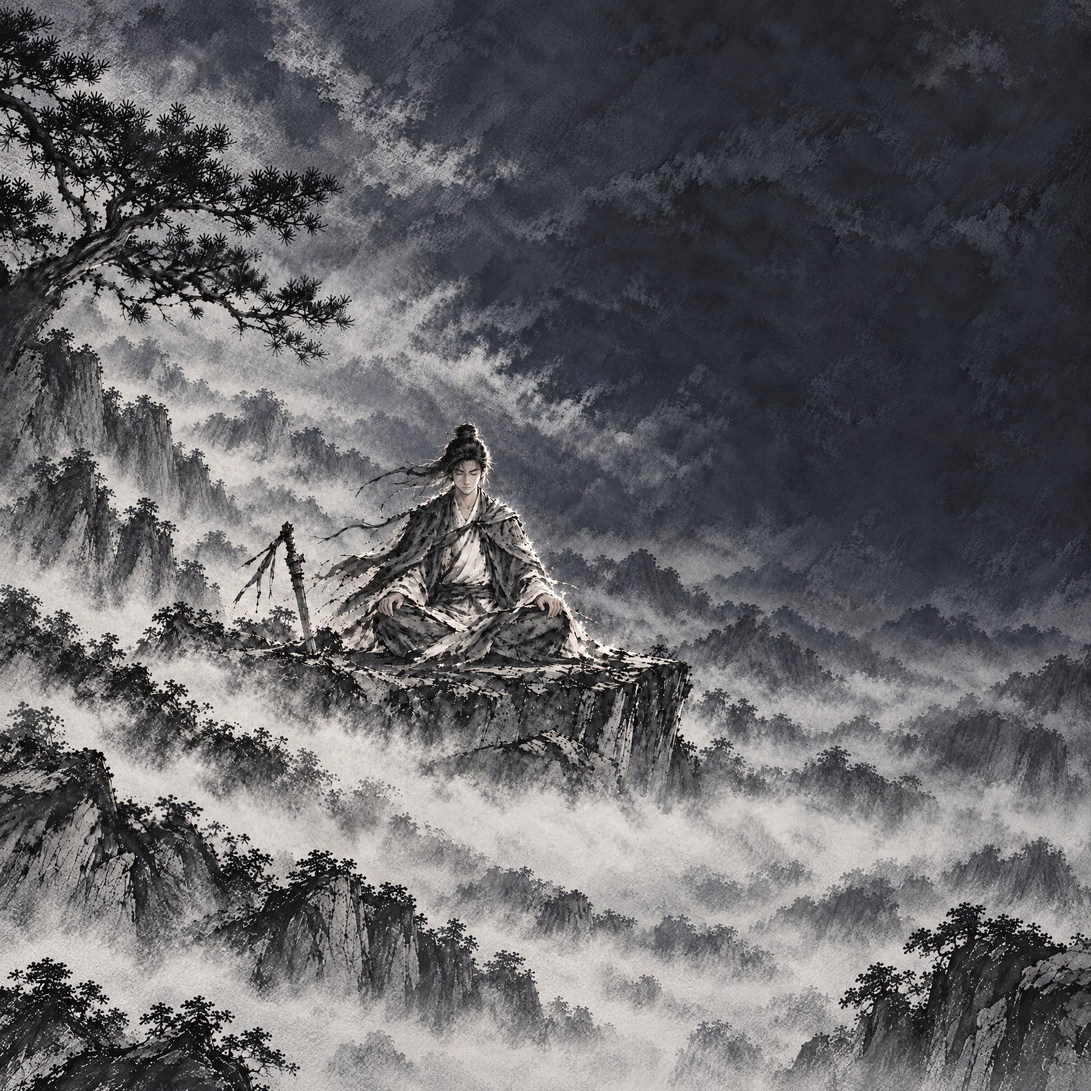
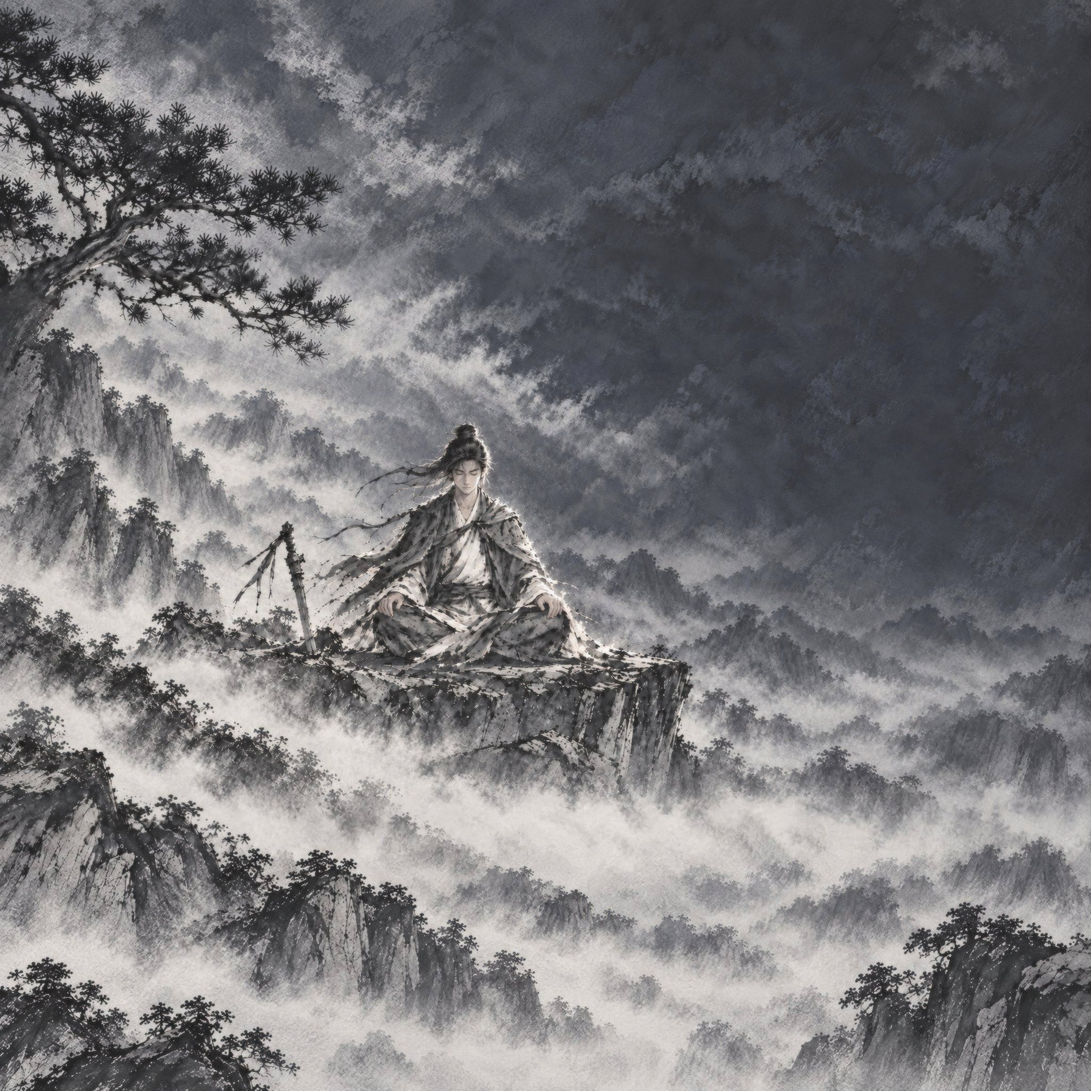
docs(bag-wugong): 武功原型——宣纸目录板、装配栏下移、底图再淡、四组类别图标对比

diff --git a/docs/design/bag-wugong-prototype.html b/docs/design/bag-wugong-prototype.html
@@ -137,27 +137,32 @@ button { font: inherit; color: inherit; }
 /* 左缘：类别圈 + 一道细竖线 */
 .wcat { position: absolute; transform: translate(-50%, -50%); width: calc(var(--pw) * .04); aspect-ratio: 1; border-radius: 50%; border: 0; padding: 0; cursor: pointer;
   background: radial-gradient(circle, oklch(0.2 0.008 262 / .92) 58%, oklch(0.2 0.008 262 / 0) 72%); display: grid; place-items: center; }
-.wcat img { width: 58%; height: 58%; object-fit: contain; filter: invert(1); }
+.wcat img { position: absolute; inset: 21%; width: 58%; height: 58%; object-fit: contain; filter: invert(1); }
 .wcat.on { background: radial-gradient(circle, oklch(0.2 0.008 262 / .92) 56%, oklch(0.78 0.11 78 / .9) 60%, oklch(0.78 0.11 78 / 0) 74%); box-shadow: 0 0 14px oklch(0.8 0.12 80 / .45); border-radius: 50%; }
 .wcat.on img { filter: invert(.85) sepia(1) saturate(1.6) hue-rotate(-12deg); }
+#sc-wg:not([data-ic="o"]) .wcat { background: none; }
+#sc-wg:not([data-ic="o"]) .wcat img, #sc-wg:not([data-ic="o"]) .wcat.on img { inset: 4%; width: 92%; height: 92%; filter: drop-shadow(0 2px 3px oklch(0.1 0.01 262 / .5)); }
+#sc-wg[data-ic="c"] .wcat { background: radial-gradient(circle, oklch(0.92 0.006 85 / .85) 50%, transparent 70%); }
+#sc-wg[data-ic="c"] .wcat img, #sc-wg[data-ic="c"] .wcat.on img { inset: 15%; width: 70%; height: 70%; }
+#sc-wg:not([data-ic="o"]) .wcat.on { background: none; box-shadow: 0 0 0 2px oklch(0.78 0.11 78 / .95), 0 0 14px oklch(0.8 0.12 80 / .5); }
+#sc-wg[data-ic="b"] .wcat, #sc-wg[data-ic="b"] .wcat.on { border-radius: 6px; }
+#sc-wg:not([data-ic="o"]) .wcat:disabled img { opacity: .4; filter: grayscale(1) brightness(1.4); }
 .wcat:disabled { cursor: not-allowed; } .wcat:disabled img { opacity: .3; }
 .wcat:focus-visible { outline: 1.5px solid var(--gold); outline-offset: 2px; }
 .wrule { position: absolute; left: 6.4%; top: 10%; height: 78%; width: 1px; background: linear-gradient(to bottom, transparent, oklch(0.85 0.01 85 / .55) 8%, oklch(0.85 0.01 85 / .55) 92%, transparent); }
 /* 目录：淡色宣纸晕底上竖写这一类各门，选中金字带点、未得淡灰 */
-.toc { position: absolute; left: 7.4%; top: 12.6%; width: 29.6%; height: 25%; display: flex;
-  background: oklch(0.9 0.006 85 / .72); -webkit-mask: linear-gradient(to right, #000 80%, transparent), linear-gradient(to bottom, #000 82%, transparent); -webkit-mask-composite: source-in; mask: linear-gradient(to right, #000 80%, transparent), linear-gradient(to bottom, #000 82%, transparent); mask-composite: intersect; }
-.toc button { flex: 0 0 12.5%; border: 0; background: none; padding: 9% 0 0; cursor: pointer; position: relative; display: flex; justify-content: center;
-  border-left: 1px solid oklch(0.4 0.01 262 / .14); }
-.toc button:first-child { border-left: 0; }
-.toc button span { writing-mode: vertical-rl; font-family: var(--font-body); font-weight: 700; font-size: clamp(14px, calc(var(--pw) * .0145), 22px); letter-spacing: .12em; color: oklch(0.24 0.01 262); }
-.toc button.on span { color: oklch(0.42 0.1 70); }
-.toc button.on::before { content: ''; position: absolute; top: 3%; left: 50%; width: 5px; height: 5px; margin-left: -2.5px; border-radius: 50%; background: oklch(0.6 0.12 75); box-shadow: 0 0 6px oklch(0.75 0.13 78); }
-.toc button.on { background: linear-gradient(to bottom, oklch(0.95 0.04 85 / .7), transparent); }
-.toc button.q2 span { color: oklch(0.36 0.1 235); } .toc button.q3 span { color: oklch(0.44 0.15 30); }
-.toc button.ghost span { color: oklch(0.55 0.01 262 / .7); }
-.toc button.eq span::after { content: '·'; display: block; color: oklch(0.5 0.1 70); }
-.toc button:hover span { text-decoration: underline; text-decoration-color: oklch(0.5 0.08 75 / .5); text-underline-offset: 3px; }
-.tocpg { position: absolute; left: 22%; top: 38.2%; z-index: 1; padding: 2px 10px; border-radius: 10px; background: oklch(0.9 0.006 85 / .6); transform: translateX(-50%); display: flex; gap: 12px; align-items: center; font-size: 13px; color: oklch(0.3 0.01 262); }
+/* 目录：AI 画的宣纸板（toc.png，板上已有七道竖线分八列），名字落在列中；选中金字、顶上一点 */
+.toc { position: absolute; left: 6.6%; top: 9.5%; width: 32%; aspect-ratio: 1400 / 684; background: url('../../code/public/art/wugong/toc.png') center / 100% 100% no-repeat; }
+.toc button { position: absolute; top: 17%; height: 64%; width: 10.3%; border: 0; background: none; padding: 0; cursor: pointer; display: flex; justify-content: center; }
+.toc button span { writing-mode: vertical-rl; font-family: var(--font-body); font-weight: 500; font-size: clamp(14px, calc(var(--pw) * .0142), 22px); letter-spacing: .14em; color: oklch(0.26 0.01 262); }
+.toc button.on span { color: oklch(0.5 0.11 72); font-weight: 700; text-shadow: 0 0 10px oklch(0.92 0.06 85); }
+.toc button.on::before { content: ''; position: absolute; top: -7%; left: 50%; width: 5px; height: 5px; margin-left: -2.5px; border-radius: 50%; background: oklch(0.62 0.12 75); box-shadow: 0 0 6px oklch(0.8 0.13 78); }
+.toc button.q2 span { color: oklch(0.38 0.1 235); } .toc button.q3 span { color: oklch(0.46 0.15 30); }
+.toc button.on.q2 span, .toc button.on.q3 span { text-decoration: underline 1.5px oklch(0.6 0.12 75); text-underline-offset: 4px; }
+.toc button.ghost span { color: oklch(0.6 0.01 262 / .75); }
+.toc button.eq::after { content: ''; position: absolute; bottom: -6%; left: 50%; width: 14px; height: 1.5px; margin-left: -7px; background: oklch(0.6 0.1 72); }
+.toc button:hover span { color: oklch(0.42 0.09 72); }
+.tocpg { position: absolute; left: 22.6%; top: 37.5%; z-index: 1; padding: 2px 10px; border-radius: 10px; background: oklch(0.9 0.006 85 / .6); transform: translateX(-50%); display: flex; gap: 12px; align-items: center; font-size: 13px; color: oklch(0.3 0.01 262); }
 .tocpg button { border: 0; background: none; cursor: pointer; font-size: 16px; color: oklch(0.3 0.01 262); } .tocpg button:disabled { opacity: .3; cursor: default; }
 /* 右侧题跋：大字竖写名 + 两列批注 + 朱印 */
 .ttl { position: absolute; left: 82.5%; top: 6%; transform: translateX(-50%); writing-mode: vertical-rl; font-family: 'Ma Shan Zheng', var(--font-display); line-height: 1;
@@ -178,8 +183,7 @@ button { font: inherit; color: inherit; }
 .fmd svg circle { fill: none; stroke-width: 3; }
 .fmd .bgc { stroke: oklch(0.85 0.01 85 / .2); } .fmd .fg { stroke: oklch(0.78 0.11 78); }
 .fmd.lock { opacity: .35; filter: grayscale(1); }
-.fmd.t3::after { content: '圆'; position: absolute; right: -6%; bottom: -4%; width: 34%; aspect-ratio: 1; display: grid; place-items: center; font-size: calc(var(--pw) * .0062);
-  background: oklch(0.5 0.17 28 / .92); color: oklch(0.95 0.02 80); border-radius: 2px; font-family: var(--font-display); }
+
 /* 属性：标签 + 墨刷条 + 数值 */
 .attrs5 { position: absolute; left: 74.5%; top: 64.5%; width: 23.5%; display: grid; gap: calc(var(--pw) * .0068); }
 .attrs5 .r { display: grid; grid-template-columns: 4.6em 1fr 4.2em; align-items: center; gap: 10px; font-size: clamp(13px, calc(var(--pw) * .0108), 16px); color: oklch(0.9 0.01 85); letter-spacing: .1em; }
@@ -198,8 +202,8 @@ button { font: inherit; color: inherit; }
 .wact button.quiet:hover { box-shadow: inset 0 0 0 1px oklch(0.85 0.01 85 / .9); }
 .wact button:disabled { filter: grayscale(1); opacity: .45; cursor: default; }
 /* 下沿装配：一排圆，圈内方框里是类别图标；第一枚是主修内功（金圈） */
-.eqrow { position: absolute; left: 50%; top: 89.3%; transform: translate(-50%, -50%); display: flex; gap: calc(var(--pw) * .0135); }
-.eq { position: relative; width: calc(var(--pw) * .05); aspect-ratio: 1; border-radius: 50%; border: 0; padding: 0; cursor: pointer;
+.eqrow { position: absolute; left: 41%; top: 92%; transform: translate(-50%, -50%); display: flex; gap: calc(var(--pw) * .011); }
+.eq { position: relative; width: calc(var(--pw) * .042); aspect-ratio: 1; border-radius: 50%; border: 0; padding: 0; cursor: pointer;
   background: radial-gradient(circle, oklch(0.18 0.008 262 / .95) 60%, oklch(0.18 0.008 262 / 0) 72%); display: grid; place-items: center; }
 .eq::after { content: ''; position: absolute; left: 15%; right: 15%; bottom: -14%; height: 8%; border-radius: 50%; background: oklch(0.1 0.01 262 / .5); filter: blur(2px); }
 .eq i { width: 50%; height: 50%; border-radius: 6px; background: oklch(0.86 0.008 85); display: grid; place-items: center; }
@@ -365,21 +369,23 @@ const NG = [
   { id: 'dingjing', name: '定慧功', quality: '寻常', route: '镇岳', zhong: 61, cap: '大成 · 6 重', attrs: [['气血', 24310], ['攻击', 2210], ['防御', 1390], ['命中', 38], ['闪避', 10]],
     yj: [['护盾', '开战得 <b>18%</b> 气血护盾'], ['反伤', '受击反伤 <b>12%</b>'], ['防御', '防御 <b>+15%</b>'], ['气海', '×<b>1.0</b> · 真气上限 <b>1640</b>']] },
 ];
-let cat = '剑', wpage = 0, open = null;
+let cat = '剑', wpage = 0, open = null, ICSET = 'a';
 const PER = 8;
 const itemsOf = (c) => c === '内功' ? NG.map((n) => ({ ...n, cat: '内功', ng: true })) : st.wx.filter((w) => w.cat === c);
 /* 属性条按名录里的最大值归一 */
 const MAXV = () => ({ mult: Math.max(...MOCK.wx.map((w) => w.mult0)), p: Math.max(...MOCK.wx.map((w) => w.p)), cost: Math.max(...MOCK.wx.map((w) => w.cost)), cd: 6 });
 
 function drawWg() {
+  const ic = (c) => ICSET === 'o' ? `${ART}/wugong/ic-${CAT_FILE[c]}.png` : `${ART}/wugong/icset/${ICSET}-${CAT_FILE[c]}.png`;
+  $('sc-wg').dataset.ic = ICSET;
   $('wcats').innerHTML = CATS.map((c, i) => { const n = itemsOf(c).length;
-    return `<button class="wcat${cat === c ? ' on' : ''}" style="left:3.6%;top:${CAT_Y[i]}%" ${n ? '' : 'disabled'} data-c="${c}" aria-label="${c}" data-tip="${c} · ${n ? n + (c === '内功' ? ' 部' : ' 门') : '尚无'}"><img src="${ART}/wugong/ic-${CAT_FILE[c]}.png" alt=""></button>`; }).join('');
+    return `<button class="wcat${cat === c ? ' on' : ''}" style="left:3.6%;top:${CAT_Y[i]}%" ${n ? '' : 'disabled'} data-c="${c}" aria-label="${c}" data-tip="${c} · ${n ? n + (c === '内功' ? ' 部' : ' 门') : '尚无'}"><img src="${ic(c)}" alt=""></button>`; }).join('');
   $('wcats').querySelectorAll('.wcat').forEach((b) => b.onclick = () => { cat = b.dataset.c; wpage = 0; const it = itemsOf(cat); open = it.length ? `${it[0].ng ? 'ng' : 'wx'}:${it[0].id}` : open; drawWg(); });
   const items = itemsOf(cat), pages = Math.max(1, Math.ceil(items.length / PER)); wpage = Math.min(wpage, pages - 1);
   if (!open || !items.some((w) => open.endsWith(':' + w.id))) open = items.length ? `${items[0].ng ? 'ng' : 'wx'}:${items[0].id}` : `ng:${st.main}`;
-  $('toc').innerHTML = items.slice(wpage * PER, wpage * PER + PER).map((w) => { const k = `${w.ng ? 'ng' : 'wx'}:${w.id}`;
+  $('toc').innerHTML = items.slice(wpage * PER, wpage * PER + PER).map((w, ci) => { const k = `${w.ng ? 'ng' : 'wx'}:${w.id}`;
     const eq = w.ng ? w.id === st.main : st.eq.includes(w.id), ghost = !w.ng && st.ghost.includes(w.id);
-    return `<button class="q${QN[w.quality]}${open === k ? ' on' : ''}${ghost ? ' ghost' : ''}${eq ? ' eq' : ''}" data-k="${k}" data-tip="${w.quality}${eq ? (w.ng ? ' · 主修' : ' · 已装配') : ghost ? ' · 未得整本' : ''}"><span>${w.name}</span></button>`; }).join('');
+    return `<button class="q${QN[w.quality]}${open === k ? ' on' : ''}${ghost ? ' ghost' : ''}${eq ? ' eq' : ''}" data-k="${k}" style="left:${8.5 + ci * 10.3}%" data-tip="${w.quality}${eq ? (w.ng ? ' · 主修' : ' · 已装配') : ghost ? ' · 未得整本' : ''}"><span>${w.name}</span></button>`; }).join('');
   $('toc').querySelectorAll('button').forEach((b) => b.onclick = () => { open = b.dataset.k; drawWg(); });
   $('tocpg').innerHTML = pages > 1 ? `<button ${wpage ? '' : 'disabled'} data-d="-1">‹</button><span>${wpage + 1} / ${pages}</span><button ${wpage < pages - 1 ? '' : 'disabled'} data-d="1">›</button>` : '';
   $('tocpg').querySelectorAll('button').forEach((b) => b.onclick = () => { wpage += +b.dataset.d; drawWg(); });
@@ -431,9 +437,14 @@ const tip = $('tip');
 document.addEventListener('mouseover', (e) => { const t = e.target.closest('[data-tip]'); if (!t || !t.dataset.tip) return; tip.innerHTML = t.dataset.tip; tip.classList.add('on');
   const r = t.getBoundingClientRect(); tip.style.left = `${Math.max(8, Math.min(innerWidth - tip.offsetWidth - 8, r.left + r.width / 2 - tip.offsetWidth / 2))}px`; tip.style.top = `${r.bottom + 8}px`; });
 document.addEventListener('mouseout', (e) => { if (e.target.closest('[data-tip]')) tip.classList.remove('on'); });
+const icv = document.createElement('span'); icv.id = 'icv'; icv.style.display = 'none';
+icv.innerHTML = '｜类别图标 ' + [['a', '甲 墨圆'], ['b', '乙 朱印'], ['c', '丙 墨笔'], ['d', '丁 圆画'], ['o', '原']].map(([k, n]) => `<button data-ic="${k}" class="${k === 'a' ? 'on' : ''}">${n}</button>`).join('');
+$('proto').appendChild(icv);
+icv.querySelectorAll('button').forEach((b) => b.onclick = () => { ICSET = b.dataset.ic; icv.querySelectorAll('button').forEach((x) => x.classList.toggle('on', x === b)); drawWg(); });
 document.addEventListener('click', () => { tip.classList.remove('on'); if (sel) { sel = null; drawBag(); } });
 document.addEventListener('keydown', (e) => { if (e.key === 'Escape' && sel) { sel = null; drawBag(); } });
 function show(p) { page = p; document.querySelectorAll('#nav button[data-p]').forEach((b) => b.classList.toggle('on', b.dataset.p === p));
+  $('icv').style.display = p === 'wg' ? '' : 'none';
   $('sc-bag').classList.toggle('off', p !== 'bag'); $('sc-wg').classList.toggle('off', p !== 'wg'); p === 'bag' ? drawBag() : drawWg(); }
 document.querySelectorAll('#nav button[data-p]').forEach((b) => b.onclick = () => show(b.dataset.p));
 
@@ -448,7 +459,7 @@ const PRESETS = {
     wx: clone(MOCK.wx.filter((w) => w.quality === '寻常').slice(0, 3)), eq: [MOCK.wx[0].id], slots: 5, main: 'shigu', ghost: [] }) },
 };
 function load(k) { st = PRESETS[k].make(); sel = null; open = null; cat = '剑'; wpage = 0; $('silver').textContent = fmt(st.silver);
-  document.querySelectorAll('.proto button').forEach((b) => b.classList.toggle('on', b.dataset.k === k)); show(page); }
+  document.querySelectorAll('.proto > button').forEach((b) => b.classList.toggle('on', b.dataset.k === k)); show(page); }
 Object.entries(PRESETS).forEach(([k, p]) => { const b = document.createElement('button'); b.textContent = p.label; b.dataset.k = k; b.onclick = () => load(k); $('proto').appendChild(b); });
 place(); load('mid');
 </script>

diff --git a/changelog.d/feature-bag-wugong-redesign.md b/changelog.d/feature-bag-wugong-redesign.md
@@ -5,3 +5,4 @@
 - **原型第三版**：两页底图以武功页洞口外那块画为风格参考重绘（雾气留白、平滑灰阶，去掉满屏碎石纹与草地纹理，行囊去掉营火与旗杆），布局与坐标不变；背包空格只留极淡底、品阶线收细、极品不发光；武功分类图标与壁刻名改深墨落在淡石上。附据点场景与门派图重绘样张 `docs/design/concepts/restyle-samples.html`。
 - **原型第四版**：武功底图重画为户外摩崖（参考前尘、修炼与行囊同一家画法，去掉洞内方格石板与石柱），一整幅 4:3 画铺满舞台上下；壁刻改为直接刻在崖面、不画框，拓片挂在松下，石印落在右侧石台；行囊背包格收进布面中央，不再压到布边与铺盖卷。
 - **武功原型重做（甲一）**：按用户选定的概念图 `concepts/wg5-wd-1.jpg` 实现——松崖打坐一整幅画（AI 原图抹去界面字样后重绘、上下续画），左缘一列类别圈，旁边目录竖写这一类各门（选中金字带点、已装下标一点、未得淡灰，一页八门可翻），右侧大字竖写名、两列批注与朱印，下设「招式」圆形墨像（外圈细弧为熟练，圆满盖印，悬停给式名、倍率、效果）与「属性」墨刷条（伤害、触发、耗气、冷却 + 特效），下沿一排圆为装配（首枚金圈为主修内功）；内功类别改为心法要诀 + 五项属性条。方向挑选页 `concepts/wugong-pick-5.html`。
+- **武功原型第二轮**：目录换成 AI 画的宣纸板（板上竖线分八列，名字落在列中）；招式圆满去掉朱印角标；下沿装配圈缩小下移、收在画面左中，不再压到右侧属性；底图再淡一档（亮度 120、浓墨 1% 以内、颗粒磨细）；类别图标出四组（墨圆 / 朱印 / 墨笔 / 圆画）供在原型状态栏切换对比，素材 `art/wugong/icset/`、`toc.png`。
